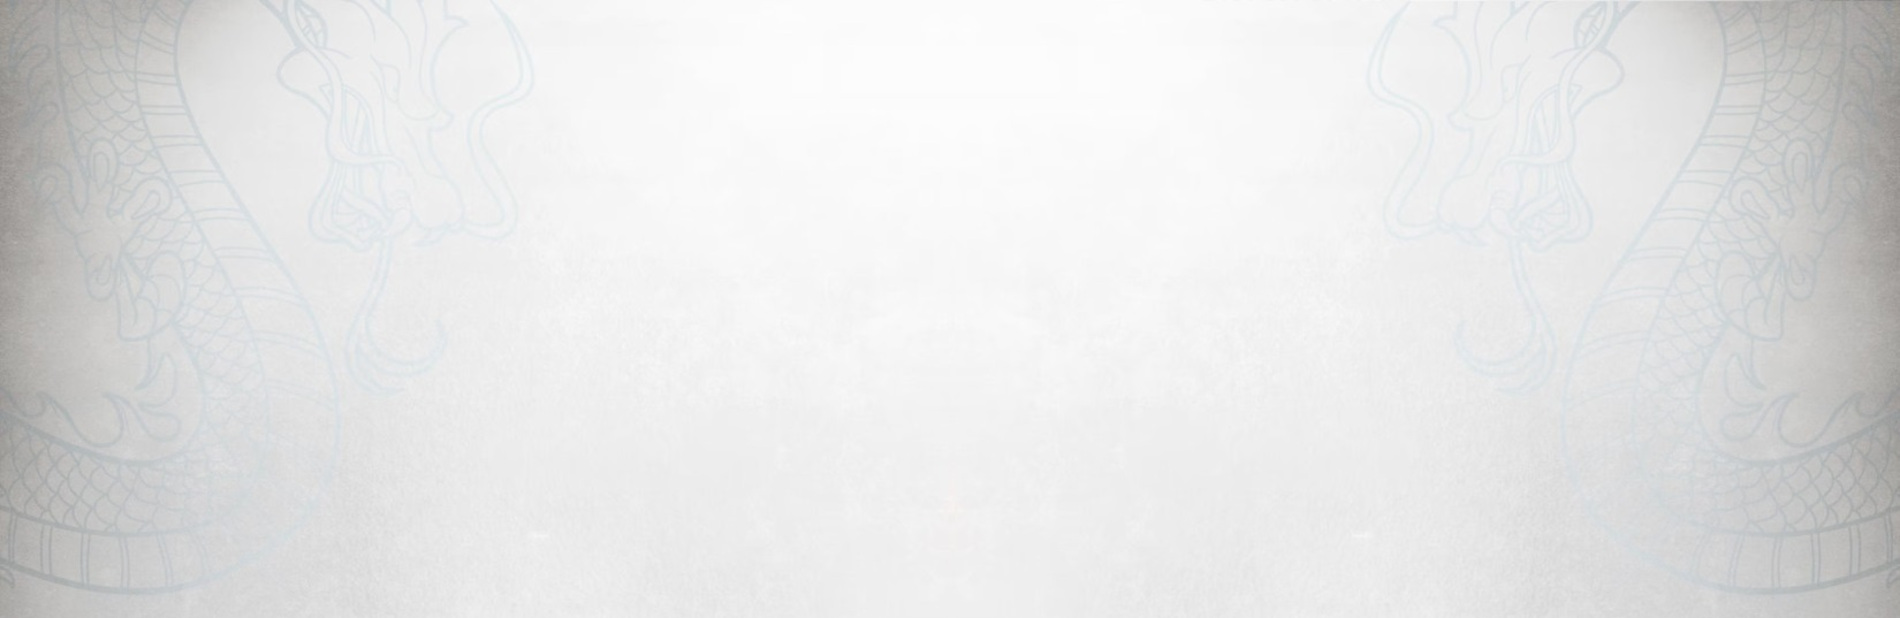
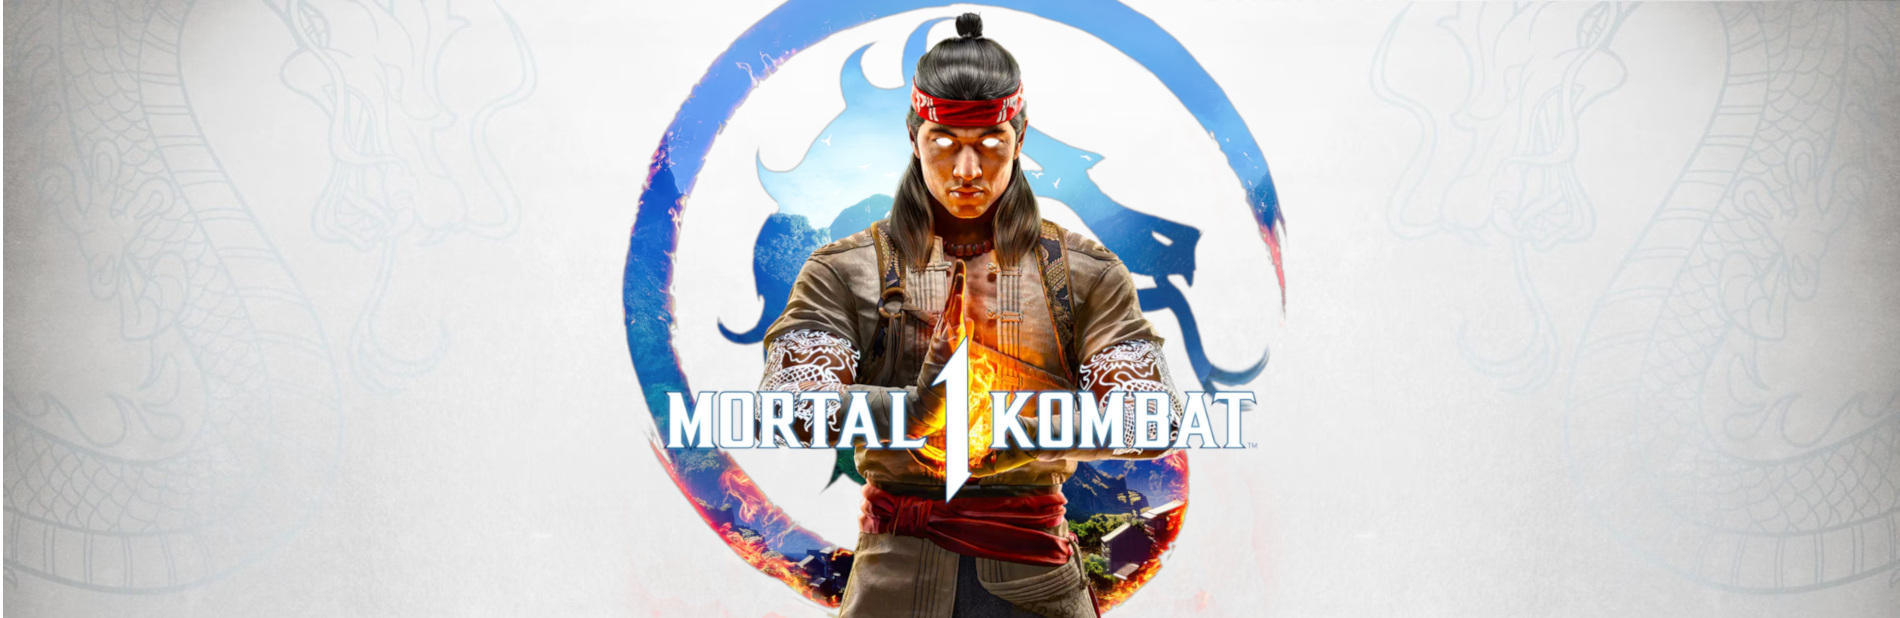
.

Changed region(s): [[0.3105, 0.0, 0.6832, 1.0]]

diff --git a/media/index.css b/media/index.css
@@ -1,32 +1,44 @@
 @media (max-width: 1581px){
-    main .slider .list .item .btn {
-        left: 638px;
-    }
-
-    main .slider .list .item .lui-mk {
-        margin-right: 389px;
-    }
-      
-}
-
-@media (max-width: 1216px){
-    main .slider .list .item .btn {
-        left: 417px;
-    }
-
-    main .slider .list .item .lui-mk {
-        margin-right: 815px;
-    }
-
     main .slider{
-        max-width: 1250px;
+        max-width: 1600px;
         height: 550px;
     }
 
     main .slider .list .item .bg-slide{
-        right: 600px;
+        right: 200px;
     }
 
+    main .slider .list .item .bg-slide2{
+        right: 300px;
+    }
+}
+
+@media (max-width: 1357px){
+    main .slider .list .item .bg-slide{
+        right: 300px;
+    }
+
+    main .slider .list .item .bg-slide2{
+        right: 500px;
+    }
+}
+
+@media (max-width: 1216px){
+
+    main .slider .list .item .bg-slide{
+        right: 400px;
+    }
+}
+
+@media (max-width: 1028px){
+
+    main .slider .list .item .bg-slide{
+        right: 480px;
+    }
+
+    main .slider .list .item .bg-slide2{
+        right: 700px;
+    }
 }
 
 
@@ -55,21 +67,20 @@
         margin-bottom: 35px;
     }
 
-    main .slider .list .item .btn {
-        left: 295px;
-    }
-
-    main .slider .list .item .lui-mk {
-        margin-right: 1067px;
-    }
-
-    main .slider{
-        max-width: 1000px;
-        height: 550px;
-    }
-
     main .slider .list .item .bg-slide{
-        right: 700px;
+        right: 530px;
+    }
+
+}
+
+
+@media (max-width: 782px){
+    main .slider .list .item .bg-slide{
+        right: 580px;
+    }
+
+    main .slider .list .item .bg-slide2{
+        right: 800px;
     }
 }
 
@@ -85,39 +96,23 @@
         grid-template-columns: 1fr 1fr;
     }
 
-    main .slider .list .item .btn {
-        left: 184px;
-    }
-
-    main .slider .list .item .lui-mk {
-        margin-right: 1287px;
-    }
-    
-    main .slider{
-        max-width: 800px;
-    }
-
     main .slider .list .item .bg-slide{
-        right: 800px;
+        right: 650px;
     }
 }
 
 
 @media (max-width: 558px){
-    main .slider .list .item .btn {
-        left: 140px;    
-        bottom: 134px;
-        width: 180px;
-    }
-
-    main .slider .list .item .lui-mk {
-        margin-right: 1425px;
-        width: 316px;
-        bottom: 67px;
+    main .slider .list .item .bg-slide{
+        right: 700px;
     }
     main .slider .buttons button {
         width: 40px;
         height: 40px;
+    }
+
+    main .slider .list .item .bg-slide2{
+        right: 850px;
     }
 }
 
@@ -130,39 +125,9 @@
     main .library .cards{
         display: grid;
         grid-template-columns: 1fr;
-    }  
-}
-
-
-@media (max-width: 420px){
-    main .slider .list .item .lui-mk {
-        margin-right: 1541px;
-        width: 268px;
-    }  
-
-    main .slider .list .item .btn {
-        left: 106px;
-        bottom: 129px;
-        width: 134px;
     }
-
-    main .slider{
-        max-width: 600px;
-        height: 550px;
-    }
-
     main .slider .list .item .bg-slide{
-        right: 900px;
+        right: 730px;
     }
 }
 
-@media (max-width: 335px){
-    main .slider .list .item .lui-mk {
-        margin-right: 1566px;
-        width: 268px;
-    }  
-
-    main .slider .list .item .btn {
-        left: 96px; 
-    }
-}

diff --git a/assets/style.css b/assets/style.css
@@ -113,36 +113,12 @@ main .slider .list .item .bg-slide{
     box-shadow: 10px 10px 10px rgba(0, 0, 0, 0.171);
 }
 
-main .slider .list .item .lui-mk{
-    position: absolute;
-    width: 435px;
-    z-index: 1;
-}
-
-main .slider .list .item .logo-slide{
-    position: absolute;
-    display: none;
-}
-
-
-main .slider .list .item .btn{
-    position: absolute;
-    width: 230px;
-    background: var(--hover2);
-    padding: 7px 10px;
-    color: var(--font);
-    border-radius: 10px;
-    display: flex;
-    align-items: center;
-    justify-content: center;
-    transition: 0.4s;
-    cursor: pointer;
-    z-index: 1;
-    margin-top: 15%;
-}
-
-main .slider .list .item .btn:hover{
-    transform: scale(1.05);
+main .slider .list .item .bg-slide2{
+    position: relative;
+    object-fit: cover;
+    max-width: 100%;
+    height: 100%;
+    box-shadow: 10px 10px 10px rgba(0, 0, 0, 0.171);
 }
 
 

diff --git a/index.html b/index.html
@@ -24,15 +24,12 @@
             
             <div class="list">
                 <div class="item">
-                    <img src="img-slide/Mortal-Kombat-bg.jpeg" alt="" class="bg-slide" >
-                    <img src="img-slide/liu-kang.webp" alt="" class="lui-mk" >
-                    <img src="img-slide/sigil.webp" alt="" class="logo-slide" >
-                    <a href="store.html" class="btn">See more</a>
+                    <img src="img-slide/valorant.jpg" alt="" class="bg-slide2" >
                 </div>
                 <div class="item">
-                    <img src="img-slide/valorant.jpg" alt="" class="bg-slide" >
-                    <a href="store.html" class="btn2">See more</a>
+                    <img src="img-slide/Mortal-Kombat-bg.jpeg" alt="" class="bg-slide" >
                 </div>
+                
             </div>
 
             <div class="buttons">
